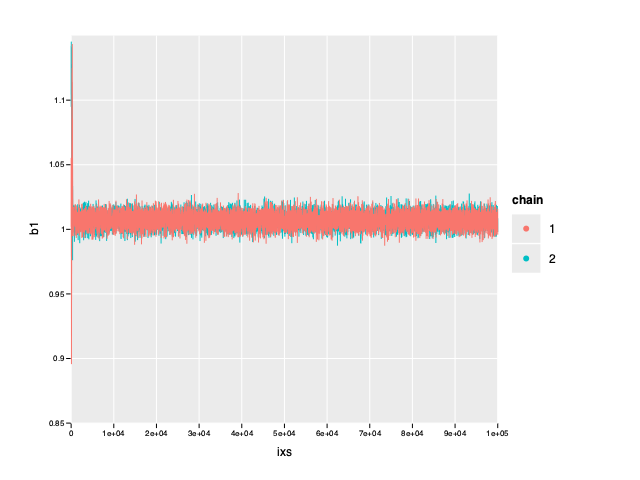
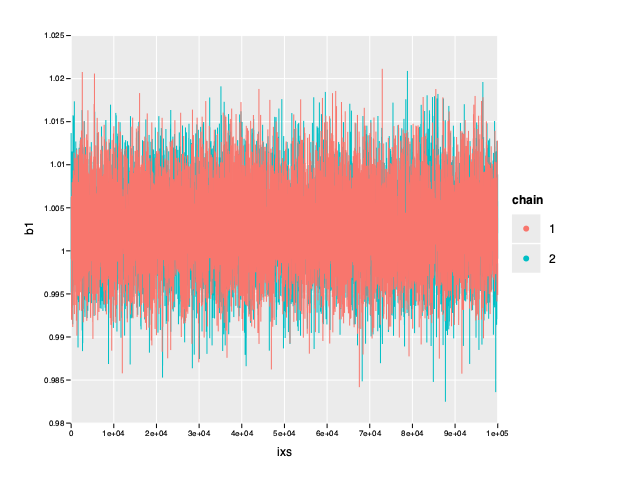
Change starting values for standardized mcmc

diff --git a/index.html b/index.html
@@ -120,9 +120,6 @@ the proability density functions for our priors.</p>
 <h4>Gamma PDF</h4>
 <p>$$ p(x) = \frac{1}{\Gamma(k)\theta^{k}} x^{k-1} e^{-\frac{x}{\theta}} $$</p>
 <pre><code class="nim hljs"><span class="hljs-keyword">import</span>
-  distributions
-
-<span class="hljs-keyword">import</span>
   std / math
 
 <span class="hljs-keyword">proc</span> normalPdf(z, mu, sigma: <span class="hljs-built_in">float</span>): <span class="hljs-built_in">float</span> =
@@ -220,7 +217,7 @@ The steps of this algorithm are as follows:</p>
   (b0Samples1, b1Samples1, sdSamples1) = mcmc(x, y, nSamples, <span class="hljs-number">0.0</span>, <span class="hljs-number">1.0</span>, <span class="hljs-number">1.0</span>,
       <span class="hljs-number">0.1</span>, <span class="hljs-number">0.1</span>, <span class="hljs-number">0.1</span>)</code></pre>
 <p>Should do another chain with different starting values</p>
-<pre><code class="nim hljs"><span class="hljs-keyword">var</span> (b0Samples2, b1Samples2, sdSamples2) = mcmc(x, y, nSamples, <span class="hljs-number">0.1</span>, <span class="hljs-number">0.9</span>, <span class="hljs-number">0.9</span>,
+<pre><code class="nim hljs"><span class="hljs-keyword">var</span> (b0Samples2, b1Samples2, sdSamples2) = mcmc(x, y, nSamples, <span class="hljs-number">0.1</span>, <span class="hljs-number">1.02</span>, <span class="hljs-number">1.1</span>,
     <span class="hljs-number">0.1</span>, <span class="hljs-number">0.1</span>, <span class="hljs-number">0.1</span>)</code></pre>
 <h1>Trace plots</h1>
 <p>We can get a sense for how well our mcmc performed and therefore gain some<br />
@@ -326,9 +323,9 @@ the mean. Let's see how close these values are to the true values of the paramet
 <span class="hljs-keyword">echo</span> meanB0
 <span class="hljs-keyword">echo</span> meanB1
 <span class="hljs-keyword">echo</span> meanSd</code></pre>
-<pre><samp>-0.4546959443132059
-1.006589253428347
-1.085232376715402
+<pre><samp>-0.1908241656792634
+1.002581119608087
+0.999646398364294
 </samp></pre>
 <h1>Credible Intervals</h1>
 <p>We The means give us a point estimate for our parameter values but they tell us
@@ -370,9 +367,9 @@ Credible interval threshold values are completely arbitrary.</p>
 <span class="hljs-keyword">echo</span> b0EtiMin, <span class="hljs-string">&quot; &quot;</span>, b0EtiMax
 <span class="hljs-keyword">echo</span> b1EtiMin, <span class="hljs-string">&quot; &quot;</span>, b1EtiMax
 <span class="hljs-keyword">echo</span> sdEtiMin, <span class="hljs-string">&quot; &quot;</span>, sdEtiMax</code></pre>
-<pre><samp>-0.889405885732931 -0.03709575172212148
-0.9998389512522882 1.013916077746567
-0.9610600812800236 1.219309894634645
+<pre><samp>-0.5360836531123057 0.1650582754538911
+0.9969445041487184 1.008268819916758
+0.8939711438887052 1.113858601688389
 </samp></pre>
 <h2>Highest Density Interval</h2>
 <pre><code class="nim hljs"><span class="hljs-keyword">proc</span> hdi(samples: <span class="hljs-built_in">seq</span>[<span class="hljs-built_in">float</span>]; credMass: <span class="hljs-built_in">float</span>): (<span class="hljs-built_in">float</span>, <span class="hljs-built_in">float</span>) =
@@ -396,9 +393,9 @@ Credible interval threshold values are completely arbitrary.</p>
 <span class="hljs-keyword">echo</span> b0HdiMin, <span class="hljs-string">&quot; &quot;</span>, b0HdiMax
 <span class="hljs-keyword">echo</span> b1HdiMin, <span class="hljs-string">&quot; &quot;</span>, b1HdiMax
 <span class="hljs-keyword">echo</span> sdHdiMin, <span class="hljs-string">&quot; &quot;</span>, sdHdiMax</code></pre>
-<pre><samp>-0.821866632494207 0.005055447284897235
-0.9990516637030115 1.012928261163502
-0.9588294141619078 1.211997937847195
+<pre><samp>-0.5228595263866326 0.1732315662528872
+0.9975307830804496 1.008650023990512
+0.8927504778460364 1.109800414119305
 </samp></pre>
 <h1>Standardize Data</h1>
 <p>We might be able to get even better mixing by standardizing the data and
@@ -429,10 +426,23 @@ different scale, the proposals we were making before wont work very well. So
 we should make the proposed changes smaller.</p>
 <p>We could also have changed our priors since the data are on a different scale
 but let's see what happens if we leave them the same.</p>
-<pre><code class="nim hljs">(b0Samples1, b1Samples1, sdSamples1) = mcmc(stX, stY, nSamples, <span class="hljs-number">0</span>, <span class="hljs-number">1</span>, <span class="hljs-number">1</span>, <span class="hljs-number">0.01</span>,
-    <span class="hljs-number">0.01</span>, <span class="hljs-number">0.01</span>)
-(b0Samples2, b1Samples2, sdSamples2) = mcmc(stX, stY, nSamples, <span class="hljs-number">0.01</span>, <span class="hljs-number">1.1</span>, <span class="hljs-number">1.1</span>,
-    <span class="hljs-number">0.01</span>, <span class="hljs-number">0.01</span>, <span class="hljs-number">0.01</span>)</code></pre>
+<pre><code class="nim hljs">(b0Samples1, b1Samples1, sdSamples1) = mcmc(stX, stY, nSamples, <span class="hljs-number">0.0</span>, <span class="hljs-number">1.0</span>, <span class="hljs-number">0.05</span>,
+    <span class="hljs-number">0.01</span>, <span class="hljs-number">0.01</span>, <span class="hljs-number">0.01</span>)
+(b0Samples2, b1Samples2, sdSamples2) = mcmc(stX, stY, nSamples, <span class="hljs-number">0.0001</span>, <span class="hljs-number">1.01</span>,
+    <span class="hljs-number">0.051</span>, <span class="hljs-number">0.01</span>, <span class="hljs-number">0.01</span>, <span class="hljs-number">0.01</span>)
+<span class="hljs-keyword">echo</span> mean(b0Samples1)
+<span class="hljs-keyword">echo</span> mean(b1Samples1)
+<span class="hljs-keyword">echo</span> mean(sdSamples1)
+<span class="hljs-keyword">echo</span> mean(b0Samples2)
+<span class="hljs-keyword">echo</span> mean(b1Samples2)
+<span class="hljs-keyword">echo</span> mean(sdSamples2)</code></pre>
+<pre><samp>3.795946426557245e-05
+0.9994064132775144
+0.04275043711748474
+-2.322934709008947e-05
+0.9994037881830803
+0.04280432472946218
+</samp></pre>
 <h3>Convert back to original scale</h3>
 <p>To interpret these new estimates we can convert back to the original scale.
 $$ \beta_{0} = \zeta_{0} SD_{y} + M_{y} - \zeta_{1} SD_{y} M_{x} / SD_{x} $$<br />
@@ -534,9 +544,9 @@ meanSd = mean(sdBurn)
 <span class="hljs-keyword">echo</span> meanB0
 <span class="hljs-keyword">echo</span> meanB1
 <span class="hljs-keyword">echo</span> meanSd</code></pre>
-<pre><samp>-0.4895693192658965
-1.007159279800622
-0.2928540388529229
+<pre><samp>-0.2241705270876181
+1.003057570388122
+0.715325642079128
 </samp></pre>
 <h1>Equal Tailed Interval</h1>
 <pre><code class="nim hljs">(b0EtiMin, b0EtiMax) = eti(b0Burn, <span class="hljs-number">0.89</span>)
@@ -545,9 +555,9 @@ meanSd = mean(sdBurn)
 <span class="hljs-keyword">echo</span> b0EtiMin, <span class="hljs-string">&quot; &quot;</span>, b0EtiMax
 <span class="hljs-keyword">echo</span> b1EtiMin, <span class="hljs-string">&quot; &quot;</span>, b1EtiMax
 <span class="hljs-keyword">echo</span> sdEtiMin, <span class="hljs-string">&quot; &quot;</span>, sdEtiMax</code></pre>
-<pre><samp>-0.9446019709928725 -0.03003575532367364
-0.9995686704865067 1.01474769761753
--0.1365582559727727 0.7460304043056638
+<pre><samp>-0.6435550499385485 0.198174948110136
+0.996245893288753 1.009863234834201
+0.3245825137704657 1.133751424496467
 </samp></pre>
 <h1>Highest Density Interval</h1>
 <pre><code class="nim hljs">(b0HdiMin, b0HdiMax) = hdi(b0Burn, <span class="hljs-number">0.89</span>)
@@ -556,9 +566,9 @@ meanSd = mean(sdBurn)
 <span class="hljs-keyword">echo</span> b0HdiMin, <span class="hljs-string">&quot; &quot;</span>, b0HdiMax
 <span class="hljs-keyword">echo</span> b1HdiMin, <span class="hljs-string">&quot; &quot;</span>, b1HdiMax
 <span class="hljs-keyword">echo</span> sdHdiMin, <span class="hljs-string">&quot; &quot;</span>, sdHdiMax</code></pre>
-<pre><samp>-0.9517791451348145 -0.03855780663149488
-0.9996963154660903 1.014846007190409
--0.1330287312211453 0.7482199787449488
+<pre><samp>-0.6440198847379222 0.1969556880305063
+0.9964242414872764 1.009977118689592
+0.3088670682856645 1.113229217333945
 </samp></pre>
 <h1>Final Note</h1>
 <p>Of course we could have simply and more efficiently done this using least squares regression.
@@ -680,7 +690,6 @@ $$ p(x) = \frac{1}{\Gamma(k)\theta^{k}} x^{k-1} e^{-\frac{x}{\theta}} $$
 &quot;&quot;&quot;</span>
 
 nbCode:
-  <span class="hljs-keyword">import</span> distributions  
   <span class="hljs-keyword">import</span> std/math
 
   <span class="hljs-keyword">proc</span> normalPdf(z, mu, sigma: <span class="hljs-built_in">float</span>): <span class="hljs-built_in">float</span> = 
@@ -807,7 +816,7 @@ Should do another chain with different starting values
 
 nbCode:
   <span class="hljs-keyword">var</span>
-    (b0Samples2, b1Samples2, sdSamples2) = mcmc(x, y, nSamples, <span class="hljs-number">0.1</span>, <span class="hljs-number">0.9</span>, <span class="hljs-number">0.9</span>, 
+    (b0Samples2, b1Samples2, sdSamples2) = mcmc(x, y, nSamples, <span class="hljs-number">0.1</span>, <span class="hljs-number">1.02</span>, <span class="hljs-number">1.1</span>, 
                                                 <span class="hljs-number">0.1</span>, <span class="hljs-number">0.1</span>, <span class="hljs-number">0.1</span>)
 
 
@@ -1019,8 +1028,17 @@ We could also have changed our priors since the data are on a different scale
 but let's see what happens if we leave them the same.
 &quot;&quot;&quot;</span>
 nbCode:
-  (b0Samples1, b1Samples1, sdSamples1) = mcmc(stX, stY, nSamples, <span class="hljs-number">0</span>, <span class="hljs-number">1</span>, <span class="hljs-number">1</span>, <span class="hljs-number">0.01</span>, <span class="hljs-number">0.01</span>, <span class="hljs-number">0.01</span>) 
-  (b0Samples2, b1Samples2, sdSamples2) = mcmc(stX, stY, nSamples, <span class="hljs-number">0.01</span>, <span class="hljs-number">1.1</span>, <span class="hljs-number">1.1</span>, <span class="hljs-number">0.01</span>, <span class="hljs-number">0.01</span>, <span class="hljs-number">0.01</span>) 
+  (b0Samples1, b1Samples1, sdSamples1) = mcmc(stX, stY, nSamples, <span class="hljs-number">0.0</span>, <span class="hljs-number">1.0</span>, <span class="hljs-number">0.05</span>, 
+                                              <span class="hljs-number">0.01</span>, <span class="hljs-number">0.01</span>, <span class="hljs-number">0.01</span>) 
+  (b0Samples2, b1Samples2, sdSamples2) = mcmc(stX, stY, nSamples, <span class="hljs-number">0.0001</span>, <span class="hljs-number">1.01</span>, <span class="hljs-number">0.051</span>, 
+                                              <span class="hljs-number">0.01</span>, <span class="hljs-number">0.01</span>, <span class="hljs-number">0.01</span>) 
+  <span class="hljs-keyword">echo</span> mean(b0Samples1)
+  <span class="hljs-keyword">echo</span> mean(b1Samples1)
+  <span class="hljs-keyword">echo</span> mean(sdSamples1)
+  <span class="hljs-keyword">echo</span> mean(b0Samples2)
+  <span class="hljs-keyword">echo</span> mean(b1Samples2)
+  <span class="hljs-keyword">echo</span> mean(sdSamples2)
+
 
 
 nbText: <span class="hljs-string">md&quot;&quot;&quot; 
